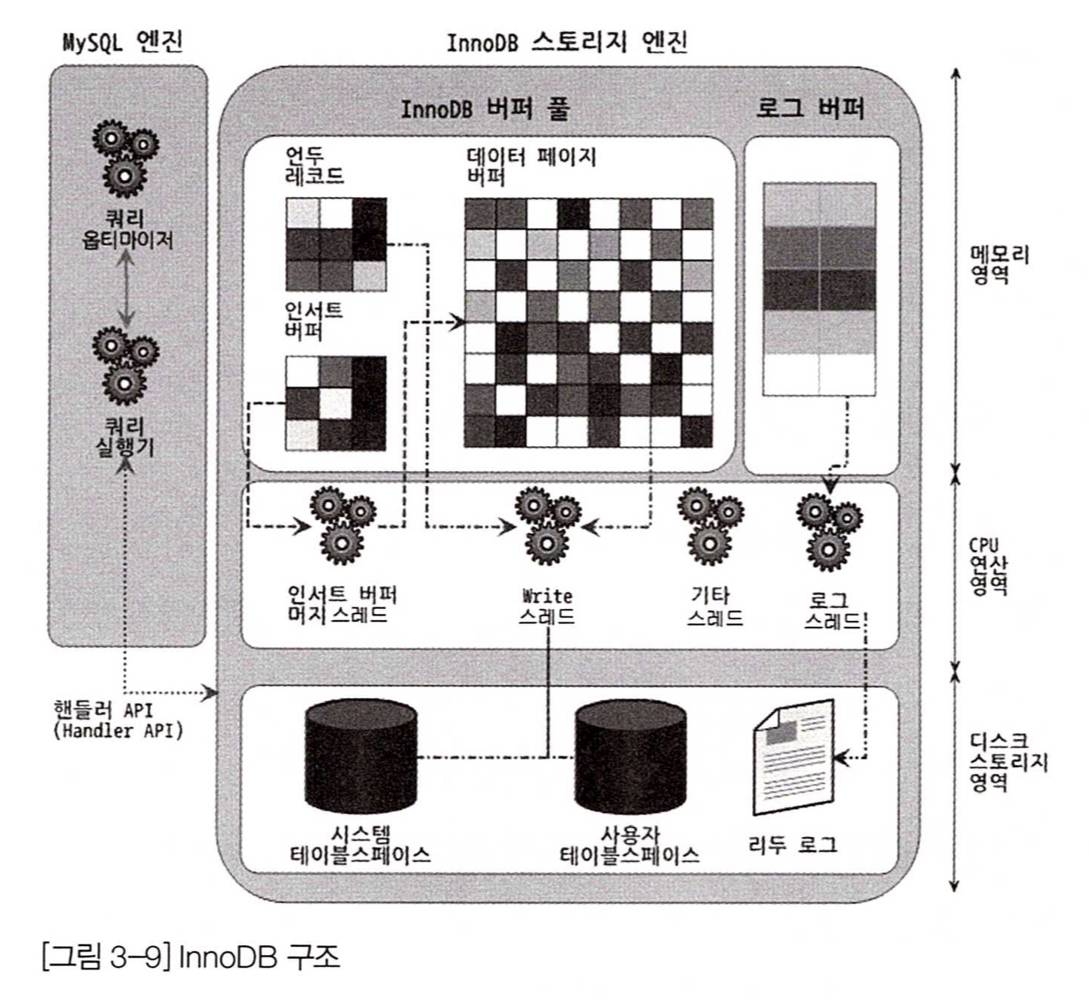
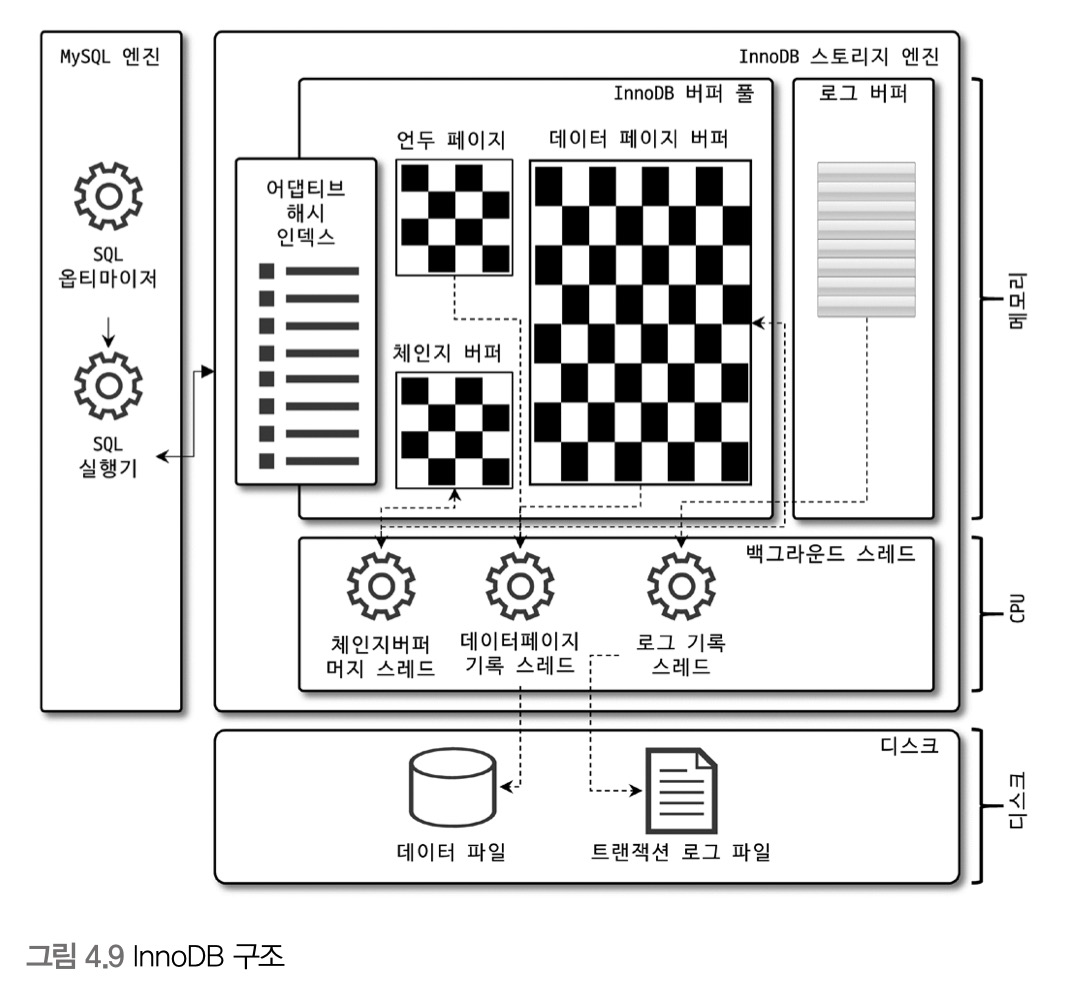
아키텍쳐, 트랜잭션

diff --git a/Database/Real MySQL.md b/Database/Real MySQL.md
@@ -1,4 +1,60 @@
 # 04. 아키텍쳐
+
+## 4.1 MySQL 엔진 아키텍쳐
+
+![[MySQL_아키텍쳐.jpeg]]
+- MySQL 엔진
+	- 두뇌 역할을 한다
+	- 커넥션 핸들러 : 클라이언트로부터 접속/쿼리 요청을 처리
+	- SQL 파싱, 전처리, 최적화 등을 수행
+	- 1 MySQL 서버에 1개의 MySQL 엔진을 사용할 수 있다
+- 스토리지 엔진
+	- 데이터를 디스크에 저장하거나 디스크로부터 읽어오는 부분을 전담한다
+	- 1 MySQL 서버에 N개의 스토리지 엔진을 사용할 수 있다
+	- 테이블을 생성할때 스토리지 엔진을 지정할 수 있고, 지정하면 이후의 쿼리를 해당 엔진이 처리한다
+	- 성능 향상을 위한 기능을 내장하고 있다 (InnoDB의 경우는 버퍼 풀)
+- 핸들러 API
+	- MySQL 엔진과 스토리지 엔진 사이의 API
+	- `SHOW GLOBAL STATUS LIKE 'Handler%'` 으로 이 API를 통해 얼마나 많은 작업이 있었는지 알 수 있다
+- MySQL의 스레딩 구조
+	- MySQL은 스레드 기반으로 동작하고, 포그라운드 스레드와 백그라운드 스레드가 있다
+	- `SELECT thread_id, name, type, processlist_user, processlist_host FROM performance_schema.threads ORDER BY type, thread_id;` 으로 실행중인 스레드정보를 볼 수 있다
+	- 포그라운드 스레드 (클라이언트 스레드, 사용자 스레드)
+		- 최소한 MySQL서버에 접속된 클라이언트 수만큼 존재한다
+		- 클라이언트의 SQL를 처리한다
+		- 포그라운드 스레는 데이터를 데이터 버퍼나 캐시에서 데이터를 가져오고, 없는 경우엔 디스크나 인덱스 파일로부터 가져온다
+	- 백그라운드 스레드
+		- InnoDB의 경우 로그 스레드(로그->디스크 기록 스레드)와 쓰기 스레드(버퍼 풀->디스크 기록 스레드) 등이 있다
+		- 그 외에도 인서트 버퍼 병합 스레드, 락/데드락 모니터링 스레드 등등이 있다
+- 메모리 구조
+	- MySQL에서 사용되는 메모리 공간은 크게 글로벌 메모리 영역과 로컬 메모리 영역으로 구분한다
+	- 글로벌 메모리 영역
+		- 스레드들이 공유해서 사용한다
+		- MySQL서버가 시작되면서 OS로부터 할당된다
+		- 테이블 캐시, InnoDB 버퍼풀, InnoDB 어댑티브 해시 인덱스, InnoDB 리두 로그버퍼 등이 있다
+	- 로컬 메모리 영역 (세션 메모리 영역, 커넥션 메모리 영역)
+		- 각 클라이언트 스레드별로 독립적이고, 공유되지 않는다
+		- 클라이언트 스레드가 쿼리를 처리하는데 사용하는 메모리 영역이다
+		- 쿼리의 용도별로 필요할때만 할당되고, 필요하지 않은 경우 할당조자 되지 않을수도 있다
+		- 커넥션이 열러 있는 동안 계속 할당된 상태로 남아있는 공간도 있고, 쿼리를 실행하는 순간에만 할당했다가 해제하는 공간도 있다
+		- 정렬 버퍼, 조인 버퍼, 바이너리 로그 캐시, 네트워크 버퍼 등이 있다
+- 플러그인 스토리지 엔진 모델
+	- 쿼리가 실행되는 과정이 아래와 같다면, 
+	  SQL 파싱 -> SQL 옵티마이징 -> SQL 실행 -> 데이터 읽기/쓰기
+	- 데이터 읽기/쓰기 부분만 갈아낄 수 있다
+- 컴포넌트
+	- MySQL8.0 부터는 플러그인의 단점을 보완한 컴포넌트 아키텍쳐를 제공한다
+- 쿼리 실행 구조![[MySQL_쿼리실행구조.jpeg]]
+	- 쿼리 파서 : 쿼리를 토큰으로 분리해 트리구조로 만들어(파서 트리) 문법오류를 검증한다.
+	- 전처리기 : 파서 트리 기반으로 구조적 문제점이 있는지 확인한다. 테이블/컬럼 이름이 존재하는지, 객체 접근 권한 등을 확인한다
+	- 옵티마이저 : 쿼리를 어떻게 하면 저렴한 비용으로 가장 빠르게 처리할지를 결정한다
+	- 쿼리 실행기(실행 엔진) : 만들어진 계획대로 각 스토리지 엔진으로 요청하고 연결하는 역할을 한다
+		- 예: 옵티마이저가 GROUP BY를 처리하기 위해 임시 테이블을 사용하기로 결정한 상황
+		1. 실행 엔진 -> 핸들러 : 임시 테이블 생성 요청
+		2. 실행 엔진 -> 핸들러 : WHERE절에 일치하는 레코드 조회 요청
+		3. 실행 엔진 -> 핸들러 : 조회한 레코드를 임시 테이블에 저장 요청
+		4. 실행 엔진 -> 핸들러 : 임시 테이블에서 원하는 형식으로 조회
+		5. 실행 엔진 : 결과를 사용자나 다른 모듈로 전달
 ## 4.2 InnoDB 스토리지 엔진 아키텍쳐
 
 - MySQL의 스토리지 엔진들 중 거의 유일하게 레코드 기반 잠금 제공 -> 높은 동시성 처리
@@ -6,13 +62,35 @@
 	- PK 기준으로 클러스터링되어 저장됨 (PK 순서대로 디스크에 저장됨)
 	- MVCC 기술을 사용해서 락 걸지 않고 읽는다 (SERIALIZABLE 제외)
 	- 현업에서 잘 쓰진 않지만 FK 지원한다
-	- 자동으로 데드락을 감지하고 데드락 발생 시 비용이 더 적은 트랜잭션을 자동으로 종료시킨다
-	- 손실이나 장애로부터 데이터를 보호하기 위한 여러 매커니즘이 있다
+	- 데드락을 감지하는 스레드가 있고, 데드락 감지 시 비용이 더 적은(언두 로그가 적은) 트랜잭션을 자동으로 종료시킨다
+	- 손실이나 장애로부터 데이터를 보호하기 위한 여러 매커니즘이 있다 (`innodb_force_recovery`)
+- MVCC (Multi Version Concurrency Control) 예시
+	- 가정 : 격리 수준은 READ_COMMITTED, 엔진 : InnoDB
+	- `UPDATE member SET area = '경기' WHERE id = 12;` 으로 area 값을 서울 -> 경기로 바꿨다면?
+	- 커밋 여부와 관계 없이 버퍼 풀엔 `경기` 언두 로그엔 이전 값(`서울`), 디스크엔 모름(일반적으론 `경기`)
+	- 커밋 전에 다른 트랜잭션에서 `SELECT * FROM member WHERE id = 12;` 를 하면 언두로그에 있는 이전 값을 읽는다.
+	- 롤백되야 한다면 언두 영역의 데이터를 버퍼 풀로 복구하고 언두로그를 삭제한다
+	- 트랜잭션이 길어지면? 언두로그가 매우 커질 수도 있다
+- 잠금 없는 일관된 읽기
+	- SERIALIZABLE 외의 격리수준에선 SELECT할때 다른 트랜잭션과 관계없이 잠금을 대기하지 않고 바로 읽는다
 
 ![[inno-db-architecture.jpeg]]
 - InnoDB 버퍼 풀
-	- 디스크의 데이터 파일이나 인덱스 정보를 메모리에 캐시해 두는 공간. 아직 디스크에 기록되지 않은 변경된 데이터를 가지고 있다.
-	- 일괄작업 되도록 버퍼 역할도 한다. 
+	- 역할
+		- 디스크의 데이터 파일이나 인덱스 정보를 메모리에 캐싱
+		- 아직 디스크에 기록되지 않은 변경된 데이터들이 일괄 작업으로 처리할 수 있게 버퍼 역할도 한다
+	- 크기는 어떻게 설정하야 하나?
+		- 전체의 50%으로 설정하고, 조금씩 올려가며 최적점을 찾아라
+		- 늘리는건 괜찮지만 줄이는건 서비스 영향도가 매우 크다
+		- 128MB 청크 단위로 처리된다
+		- 관련 변수 : `innodb_buffer_pool_size`, `innodb_buffer_pool_instances`
+	- 구조?
+		- 버퍼 풀이라는 거대한 메모리 공간을 `innodb_page_size` 크기의 조각으로 쪼갠다
+		- 각 조각을 관리하기 위해 3개의 자료구조를 관리한다
+			1. LRU 리스트
+				- ... todo
+			2. 플러시 리스트
+			3. 프리 리스트
 - 언두 로그
 	- 변경(UPDATE, DELETE) 전의 데이터를 보관하는 곳
 	- 용도1. 트랜잭션 롤백 대비용
@@ -25,43 +103,55 @@
 	- 리두 로그 덕분에 변경된 내용을 한꺼번에 처리할 수 있다
 - 로그 버퍼
 	- 리두 로그 버퍼링에 사용되는 공간
-- MVCC (Multi Version Concurrency Control) 예시
-	- 가정 : 격리 수준은 READ_COMMITTED, 엔진 : InnoDB
-	- `UPDATE member SET area = '경기' WHERE id = 12;` 으로 area 값을 서울 -> 경기로 바꿨다면?
-	- 커밋 여부와 관계 없이 버퍼 풀엔 `경기` 언두 로그엔 이전 값(`서울`), 디스크엔 모름(일반적으론 `경기`)
-	- 커밋 전에 다른 트랜잭션에서 `SELECT * FROM member WHERE id = 12;` 를 하면 언두로그에 있는 이전 값을 읽는다.
-	- 롤백되야 한다면 언두 영역의 데이터를 버퍼 풀로 복구하고 언두로그를 삭제한다
-- 잠금 없는 일관된 읽기
-	- SERIALIZABLE 외의 격리수준에선 SELECT할때 다른 트랜잭션과 관계없이 잠금을 대기하지 않고 바로 읽는다
 # 05. 트랜잭션과 잠금
 ## 5.1 트랜잭션
-- MyISAM은 트랜잭션을 지원하지 않는다
+- MyISAM, MEMORY 엔진은 트랜잭션을 지원하지 않는다
+- 트랜잭션은 꼭 여러개의 변경 쿼리가 묶일때만 의미있는건 아니다. 하나의 쿼리더라도 100% 적용되어야 한다면 의미가 있다.
+	- (InnoDB인 경우) 
+	  id=3이 이미 있는 테이블에 `insert into table_name (id) values (1),(2),(3);` 을 트랜잭션 내에서 수행하면 쿼리 자체가 실패하고, id=1,2에 해당하는 row는 생기지 않는다.
 - 트랜잭션 범위는 최소화하여 커넥션 점유 시간을 줄이는 것이 좋다
+	- 커넥션 소유 시간이 길어질수록 가용한 커넥션 수가 줄어들고 여러 프로그램에서 기다리게 될수도 있다
+	- 외부와 연동하는 부분(메일, FTP파일 전송 등)은 트랜잭션 내에서 제거하는게 좋다. 통신할 수 없는 상황엔 웹서버뿐만 아니라 DBMS까지 위험해질 수 있다.
 ## 5.2 MySQL 엔진의 잠금
 - MySQL의 잠금은 스토리지 엔진 레벨과 MySQL 엔진 레벨로 나뉜다
-	- MySQL 엔진(MySQL 서버에서 스토리지 엔진을 제외한 나머지 부분) 레벨 잠금 : 모든 스토리지 엔진에 영향을 미침
-		- 테이블 락, 유저 락, 네임 락
-	- 스토리지 엔진 레벨 잠금 : 엔진 간 영향 없음
+	- MySQL 엔진 레벨 잠금
+		- MySQL 엔진 = MySQL 서버에서 스토리지 엔진을 제외한 나머지 부분
+		- 모든 스토리지 엔진에 영향을 미침
+		- 테이블 락, 메타데이터 락, 네임드 락 등..
+	- 스토리지 엔진 레벨 잠금
+		- 엔진 간 영향 없음
+		- InnoDB 스토리지 엔진의 잠금으로는 레코드락, 갭락, 넥스트 키락 등...
 - 글로벌 락
-	- `FLUSH TABLES WITH READ LOCK` 으로만 획득 가능
-	- 락 중 범위가 가장 큼
-	- 다른 세션에서 글로벌 락을 획득하면 다른 세션에서 SELECT를 제외한 대부분의 쿼리가 대기한다
+	- MyISAM, MEMORY 엔진에서 백업할때 사용한다
+	- `FLUSH TABLES WITH READ LOCK` 으로만 획득 가능하고, 락 중 범위가 가장 크다
+	- 한 세션에서 글로벌 락을 획득하면 다른 세션에서 SELECT를 제외한 대부분의 DDL, DML가 대기한다
+- 백업 락
+	- MySQL8부터 트랜잭션이 지원되는 InnoDB가 기본 엔진으로 채택되면서 가벼운 글로벌 락이 필요해졌다
+	- `LOCK INSTANCE FOR BACKUP; ...(백업 실행)... UNLOCK INSTANCE;`
+	- 백업 락을 걸면 모든 데이터 변경까지는 아니고 테이블의 스키마나 사용자의 인증관련 정보 등을 변경할 수 없다
 - 테이블 락
 	- `LOCK TABLES table_name [READ|WRITE]` 으로 명시적으로 획득하거나 묵시적으로 획득 가능
 	- `UNLOCK TABLES` 로 락 반납
 	- InnoDB에선 레코드 기반의 락을 제공하기 때문에 묵시적인 테이블 락이 설정되지 않는다
-- 유저 락
+- 네임드 락
 	- 사용자가 지정한 문자열에 대해 획득하고 반납하는 락
-	- 자주 쓰이진 않지만 여러 클라이언트가 상호 동기화를 처리해야 할때나 배치같이 한꺼번에 많이 변경하는 프로그램에서의 데드락 문제를 해결할때 사용할 수 있다
-- 네임 락
-	- 테이블이나 뷰의 이름을 변경할때(`RENAME TABLE tab_a TO tab_b`) 자동으로 획득하는 락
+	- 잠금의 대상이 테이블이나 레코드 등이 아니라 사용자의 문자열이다
+	  ```
+		  SELECT GET_LOCK('mylock', 2); -- 락 획득 (2초까지만 대기)
+		  SELECT IS_FREE_LOCK('mylock'); -- 락 확인
+		  SELECT RELEASE_LOCK('mylock'); -- 락 반납
+		  SELECT RELEASE_ALL_LOCKS(); -- 모든 락 반납
+		```
+	- 여러 클라이언트가 상호 동기화를 처리해야 할때나 배치같이 한꺼번에 많이 변경하는 프로그램에서의 데드락 문제를 해결할때 사용할 수 있다
+- 메타데이터 락
+	- 데이터베이스 객체를 변경하는 경우에 획득하는 잠금
+	- 테이블이나 뷰의 이름을 변경할때(`RENAME TABLE tab TO tab_backup, tab_new to tab`) 자동으로 획득하는 락
 ## 5.3 InnoDB 스토리지 엔진의 잠금
 - 레코드 기반 잠금 방식을 탑재하고 있어 MyISAM보다는 훨씬 뛰어난 동시성 처리를 제공한다
 - InnoDB는 비관적 락 방식 채택
 	- 비관적 락 : 현재 트랜잭션에서 변경하고자 하는 레코드에 대해 잠금을 획득하고 변경하는 방식
 	- 낙관적 락 : 우선 변경하고 충돌이 있다면 롤백처리하는 방식
-- InnoDB의 락 종류
-	아래 사진은 레코드가 아니고 인덱스임!!![](../images/innodb_lock.jpeg)
+- InnoDB의 락 종류![](../images/innodb_lock.jpeg)
 	- 레코드 락
 		- 레코드 자체만 잠그는 락.
 		- pk또는 unique 인덱스에 의한 변경작업은 레코드락만 건다
@@ -273,6 +363,7 @@ CREATE INDEX idx_user on article (user_id);
 		- 예 : `select * from article where user_id between 10 and 100 and created_at between '2009-01-01' and '2010-12-31' order by user_id;`
 			- 위 두 조건 모두 O이고, 마지막에 user_id로 정렬한다
 			- 실행계획을 조회하면 Extra 컬럼에 Using filesort가 있어야 할 것 같지만, user_id로 이미 정렬되어 있기 때문에 별도의 정렬작업을 하지 않는다.
+
 ## 13.2 주의사항
 - 파티션의 제약사항
 	- 파티션 표현식(`PARTITION BY ... (요부분)`) 에 MySQL 내장함수를 지원하지만, 일부 함수들은 파티션 프루닝 기능을 지원하지 않을수도 있다
@@ -283,7 +374,8 @@ CREATE INDEX idx_user on article (user_id);
 	- fk, 전문 검색 인덱스, 전문 검색 쿼리, 임시테이블을 사용할 수 없다
 	- 공간 데이터를 저장하는 컬럼 타입(POINT, GEOMETRY...)은 파티션 테이블에서 사용할 수 없다
 - 파티션 사용 시 주의사항
-	- 파티션 키는 모든 uk/pk의 모든 컬럼을 포함해야 한다
+	- 파티션 키는 모든 uk/pk에 포함되어야 한다
+		- why? 파티션의 존재 이유는 조회성능 최적화다. uk/pk에 포함되어 있지 않다면 다른 모든 파티션을 전부 열어봐야 한다
 		- 만약 PARTITION BY HASH (col3) 이라면, 모든 uk, pk는 col3을 포함해야 한다
 	- 파티셔닝을 사용하면 MySQL 서버에서 동시에 오픈하는 파일의 수가 상당이 많아질 수 있으므로 open_files_limit 변수값을 높여야 할 수도 있다
 ## 13.3 MySQL 파티션의 종류
@@ -320,4 +412,4 @@ CREATE INDEX idx_user on article (user_id);
 	- `select * from user where name = 'toto';` 쿼리를 실행한다고 할때...
 	- id 기준으로 1024개의 파티션을 갖는다면? 1024개의 파티션을 모두 읽어야 한다
 	- 파티션이 없다면? B-Tree를 한번만 룩업해서 읽으면 되니까 효율적이다
-	- 데이터가 많다고 무조건 파티셔닝 하지 말고 조회되는 방식을 보고 도입하자.
+	- 데이터가 많다고 무조건 파티셔닝 하지 말고 "조회되는 방식"을 보고 도입하자.
